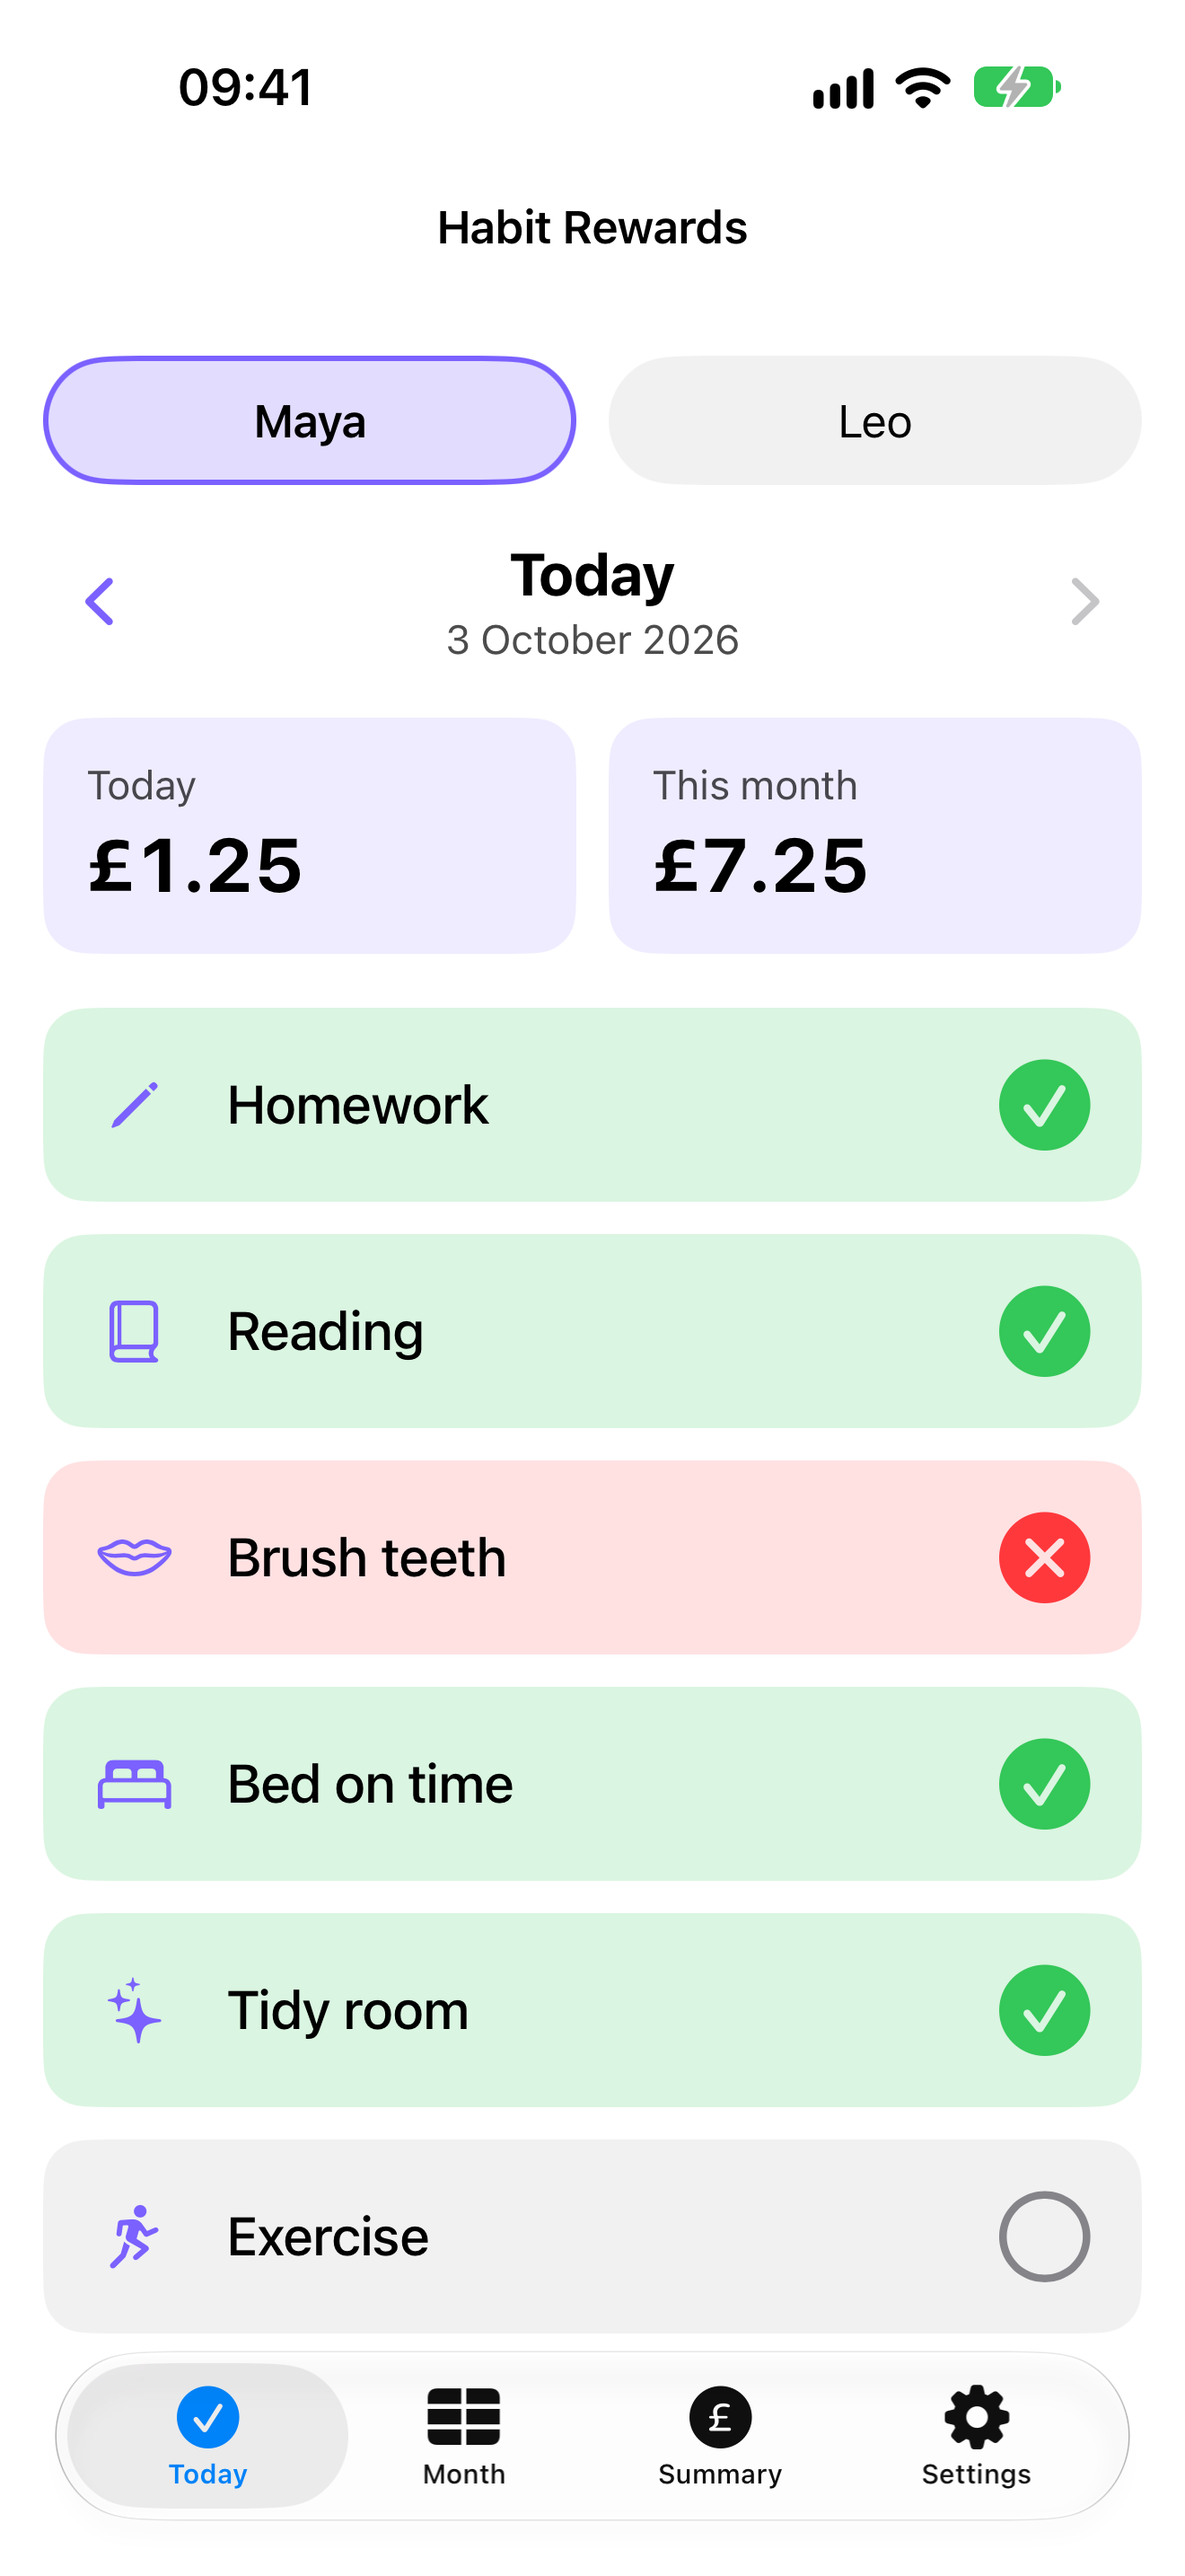
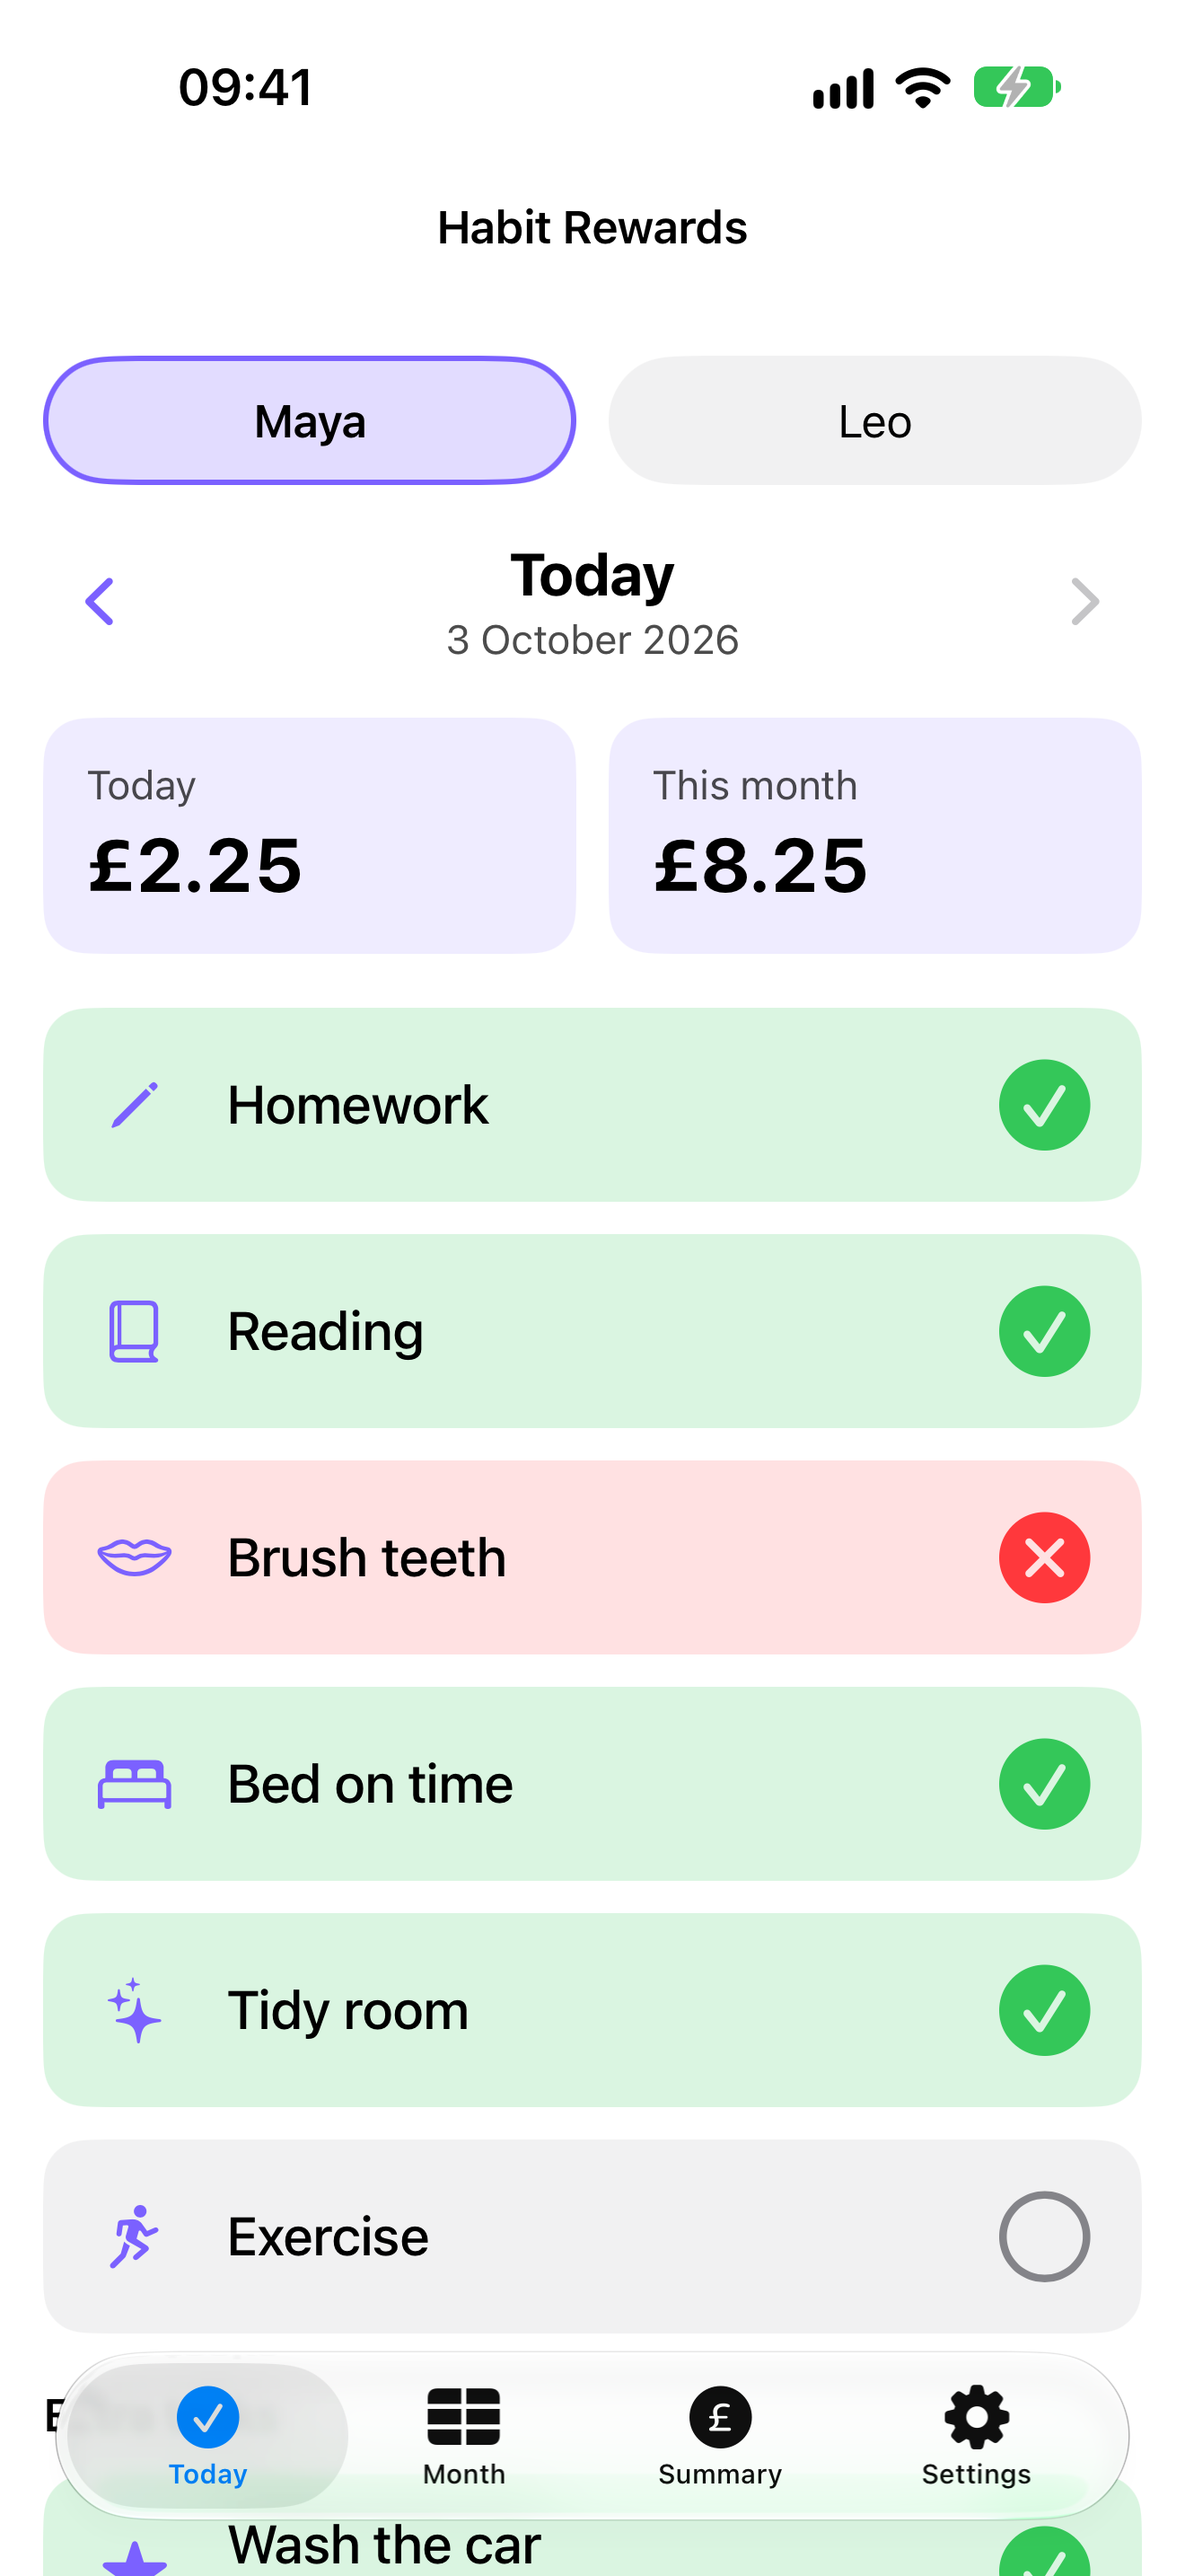
Prepare 1.1 for the App Store
- Six new screenshots, including extra tasks and a habit for one child
  (the demo family's Tidy room is Maya's only).
- Support page: how to give a habit to some children and how extra tasks
  work; the home page, privacy policy and README mention them.
- Listing text for 1.1: What's New, an updated description, promotional
  text and review notes.

Changed region(s): [[0.0311, 0.931, 0.9629, 1.0], [0.5902, 0.3103, 0.6212, 0.3414], [0.1242, 0.3103, 0.1553, 0.3414]]

diff --git a/HabitRewards/Preview/DemoData.swift b/HabitRewards/Preview/DemoData.swift
@@ -11,6 +11,10 @@ enum DemoData {
         for (child, name) in zip(children, ["Maya", "Leo"]) {
             child.name = name
         }
+        // One habit that's just Maya's, to show habits can be for some children only.
+        if let maya = children.first, habits.count > 4 {
+            habits[4].childIDs = [maya.id]
+        }
 
         let thisMonth = CalendarMonth(containing: today, calendar: calendar)
         let lastMonth = thisMonth.previous
@@ -22,18 +26,19 @@ enum DemoData {
             var lastMonthTotal = 0
             for (dayIndex, day) in days.enumerated() {
                 let statuses = habits.indices.map { status(child: childIndex, day: dayIndex, habit: $0) }
-                for (habit, status) in zip(habits, statuses) {
+                let theirs = zip(habits, statuses).filter { $0.0.isFor(child) }
+                for (habit, status) in theirs {
                     try DayEntry.upsert(child: child, habit: habit, date: day, status: status, in: context, calendar: calendar)
                 }
                 if CalendarMonth(containing: day, calendar: calendar) == lastMonth {
-                    lastMonthTotal += engine.dayScore(statuses)
+                    lastMonthTotal += engine.dayScore(theirs.map(\.1))
                 }
             }
             // Today, half way through, with something still to do.
             let todays: [HabitStatus] = childIndex == 0
                 ? [.done, .done, .missed, .done, .done, .unset]
                 : [.done, .missed, .done, .unset, .done, .unset]
-            for (habit, status) in zip(habits, todays) where status != .unset {
+            for (habit, status) in zip(habits, todays) where status != .unset && habit.isFor(child) {
                 try DayEntry.upsert(child: child, habit: habit, date: today, status: status, in: context, calendar: calendar)
             }
             if childIndex == 0 {

diff --git a/docs/support.html b/docs/support.html
@@ -30,6 +30,19 @@
   <p>Open the <strong>Settings</strong> tab and unlock with Face ID or your passcode. You can rename children, add
     more, and add, rename or turn off habits. Turning a habit off keeps its history.</p>
 
+  <h2>A habit for one child only</h2>
+  <p>In <strong>Settings → Habits</strong>, tap the habit. Under <strong>For</strong>, untick the children it isn't
+    for, then tap <strong>Save</strong>. It disappears from their Today screen and month grid, and each child's
+    perfect days count only their own habits. Their earlier ticks stay. A child added later gets the habits that
+    have every child ticked.</p>
+
+  <h2>Extra tasks</h2>
+  <p>For a one-off job, like washing the car, scroll down on the <strong>Today</strong> screen and tap
+    <strong>Add extra task</strong>. Enter the task, pick a reward and choose which children it's for. It's set for the
+    day on screen only. Tap the task once it's done: its reward is added to that day, on top of the habits, even
+    on a day when the habits came to nothing. If it isn't done, nothing is taken off. Touch and hold a task to change
+    or remove it. Setting, changing or removing a task needs Face ID or your passcode.</p>
+
   <h2>Sharing with the other parent</h2>
   <div class="card">
     <ol>

diff --git a/HabitRewardsUITests/AppStoreScreenshots.swift b/HabitRewardsUITests/AppStoreScreenshots.swift
@@ -13,15 +13,29 @@ final class AppStoreScreenshots: XCTestCase {
         XCTAssertTrue(app.buttons["Homework"].waitForExistence(timeout: 5))
         snap("1 Today")
 
+        // Further down Today: Maya's extra task.
+        app.swipeUp()
+        XCTAssertTrue(app.buttons["Add extra task"].waitForExistence(timeout: 2))
+        snap("2 Extra tasks")
+
         app.tabBars.buttons["Month"].tap()
         app.buttons["Previous month"].tap()
-        snap("2 Month")
+        snap("3 Month")
 
         app.tabBars.buttons["Summary"].tap()
-        snap("3 Summary")
+        snap("4 Summary")
 
         app.tabBars.buttons["Settings"].tap()
-        snap("4 Settings")
+        snap("5 Settings")
+
+        // The habit that's just Maya's, open in the editor to show who it's for.
+        let tidyRoom = app.buttons.matching(NSPredicate(format: "label BEGINSWITH %@", "Tidy room")).firstMatch
+        for _ in 0..<4 where !tidyRoom.isHittable {
+            app.swipeUp()
+        }
+        tidyRoom.tap()
+        XCTAssertTrue(app.navigationBars["Edit habit"].waitForExistence(timeout: 3))
+        snap("6 Habit for some children")
     }
 
     @MainActor

diff --git a/docs/privacy.html b/docs/privacy.html
@@ -13,7 +13,7 @@
   <header>
     <a class="app" href="./"><img src="icon.png" alt="">Habit Rewards Family</a>
     <h1>Privacy Policy</h1>
-    <p class="muted">Effective 2 October 2026</p>
+    <p class="muted">Effective 3 October 2026</p>
   </header>
 
   <div class="card">
@@ -23,8 +23,8 @@
   </div>
 
   <h2>What the app stores, and where</h2>
-  <p>The app keeps your children's names, habits, daily ticks, reward amounts and payments in a database on your
-    iPhone. The home-screen widget reads the same database. None of it is sent to the developer or to anyone else.</p>
+  <p>The app keeps your children's names, habits, daily ticks, extra tasks, reward amounts and payments in a database
+    on your iPhone. The home-screen widget reads the same database. None of it is sent to the developer or to anyone else.</p>
 
   <h2>Family sharing (optional)</h2>
   <p>If you choose <em>Share with the other parent</em>, the app stores a copy of the family's data in your

diff --git a/docs/index.html b/docs/index.html
@@ -19,6 +19,7 @@
   <ul>
     <li>Tick each child's habits every day: done or missed.</li>
     <li>Each day is scored automatically, and the month adds up to their pocket money.</li>
+    <li>Give each child their own habits, and add one-off extra tasks, like washing the car, with their own reward.</li>
     <li>See the whole month as a grid, mark payments as paid, and export to a spreadsheet or PDF.</li>
     <li>Share with the other parent through iCloud, so both phones stay in step.</li>
     <li>No accounts, no ads, no tracking.</li>

diff --git a/AppStore/Listing.md b/AppStore/Listing.md
@@ -1,6 +1,11 @@
 # App Store listing: Habit Rewards Family
 
-Text to paste into App Store Connect → Habit Rewards Family → the **1.0 Prepare for Submission** page and **App Information**. The character counts are checked against Apple's limits.
+Text to paste into App Store Connect for **version 1.1 (build 5)**. The character counts are checked against Apple's limits.
+
+## Which version page to use
+
+- **If 1.0 has never been submitted:** on the **1.0 Prepare for Submission** page, change the version number to **1.1** and choose build **1.1 (5)**. It goes out as the app's first release, so there's no "What's New".
+- **If 1.0 is already on the App Store:** next to the iOS versions, click **+**, enter **1.1**, and fill in **What's New** below.
 
 ## App Information
 
@@ -13,19 +18,25 @@ Text to paste into App Store Connect → Habit Rewards Family → the **1.0 Prep
 | Age rating | Answer **None / No** to every question → 4+. Not "Made for Kids": the app is for parents. |
 | Privacy Policy URL | https://shan83kalai.github.io/habit-rewards/privacy.html |
 
-## Version 1.0
+## Version 1.1
 
 | Field | Value |
 |---|---|
 | Support URL | https://shan83kalai.github.io/habit-rewards/support.html |
 | Marketing URL | https://shan83kalai.github.io/habit-rewards/ |
 | Copyright | 2026 Shan Nagarajan |
-| Screenshots | `AppStore/Screenshots/` (1–4), in the **6.9" iPhone** slot. Apple scales them for smaller iPhones. |
-| Build | 1.0 (3) |
+| Screenshots | All six in `AppStore/Screenshots/`, in order, in the **6.9" iPhone** slot. Apple scales them for smaller iPhones. |
+| Build | 1.1 (5) |
+
+**What's New (updates only):**
+
+> • Habits for some children only: in Settings → Habits, choose who each habit is for. Each child's perfect days count just their own habits, and earlier ticks are kept.
+> • Extra tasks: set a one-off job for a child on the day, like washing the car, with its own reward. It's added to the day once done, and nothing is taken off if it isn't.
+> • Smaller fixes and improvements.
 
 **Promotional text (170):**
 
-> Tick your children's habits each day and watch them turn into pocket money. Share with the other parent, in your own currency.
+> New: give each child their own habits, and add one-off extra tasks, like washing the car, with their own reward.
 
 **Keywords (100):**
 
@@ -42,6 +53,10 @@ Text to paste into App Store Connect → Habit Rewards Family → the **1.0 Prep
 > • A day never goes below zero, and the month adds up by itself.
 > • You choose the habits and the amounts. Changes apply from this month on, and earlier months keep theirs.
 >
+> MADE FOR YOUR FAMILY
+> • Give each child their own habits: choose who each habit is for.
+> • Extra tasks: set a one-off job for the day, like washing the car, with its own reward. It's added once done, and nothing is taken off if it isn't.
+>
 > SEE THE WHOLE MONTH
 > • A month grid for each child, like a paper chart.
 > • Perfect days, best streaks, and the best and most-missed habits.
@@ -51,7 +66,7 @@ Text to paste into App Store Connect → Habit Rewards Family → the **1.0 Prep
 > • Share with the other parent through iCloud, even if you use different Apple IDs. Both phones stay in step.
 >
 > PARENT CONTROLS
-> • Settings, payments and earlier months are protected by Face ID or your passcode.
+> • Settings, payments, extra tasks and earlier months are protected by Face ID or your passcode.
 >
 > ALSO
 > • Home-screen and Lock Screen widgets with today's totals.
@@ -74,7 +89,9 @@ Text to paste into App Store Connect → Habit Rewards Family → the **1.0 Prep
 
 > No sign-in is needed. Everything works on one device.
 >
-> Parent settings (the Settings tab, payments and earlier months) unlock with Face ID or the device passcode. On a device without a passcode they open freely.
+> Parent settings (the Settings tab, payments, extra tasks and earlier months) unlock with Face ID or the device passcode. On a device without a passcode they open freely.
+>
+> To try the 1.1 features: Settings → Habits → tap a habit → under For, untick a child. On the Today screen, scroll down and tap Add extra task, then tap the task to mark it done.
 >
 > Family sharing is optional and needs a second device signed into a different iCloud account: Settings → Share with the other parent → Add Participant, then open the link on the second device and tap Join. The app uses the user's own private and shared CloudKit databases; there is no server.
 

diff --git a/README.md b/README.md
@@ -3,6 +3,7 @@
 An iPhone app for parents. Tick each child's daily habits, and the app turns them into pocket money.
 
 - Each habit done earns a reward, and each habit missed takes off a penalty. A day never goes below zero, and the month adds up.
+- Habits can be for some children only, and one-off extra tasks earn their own reward on the day.
 - Month grid, payments, CSV and PDF export, a home-screen widget, and daily reminders.
 - Optional sharing between both parents' iPhones through their own iCloud (CloudKit), even with different Apple IDs.
 - No accounts, ads, analytics or tracking.
